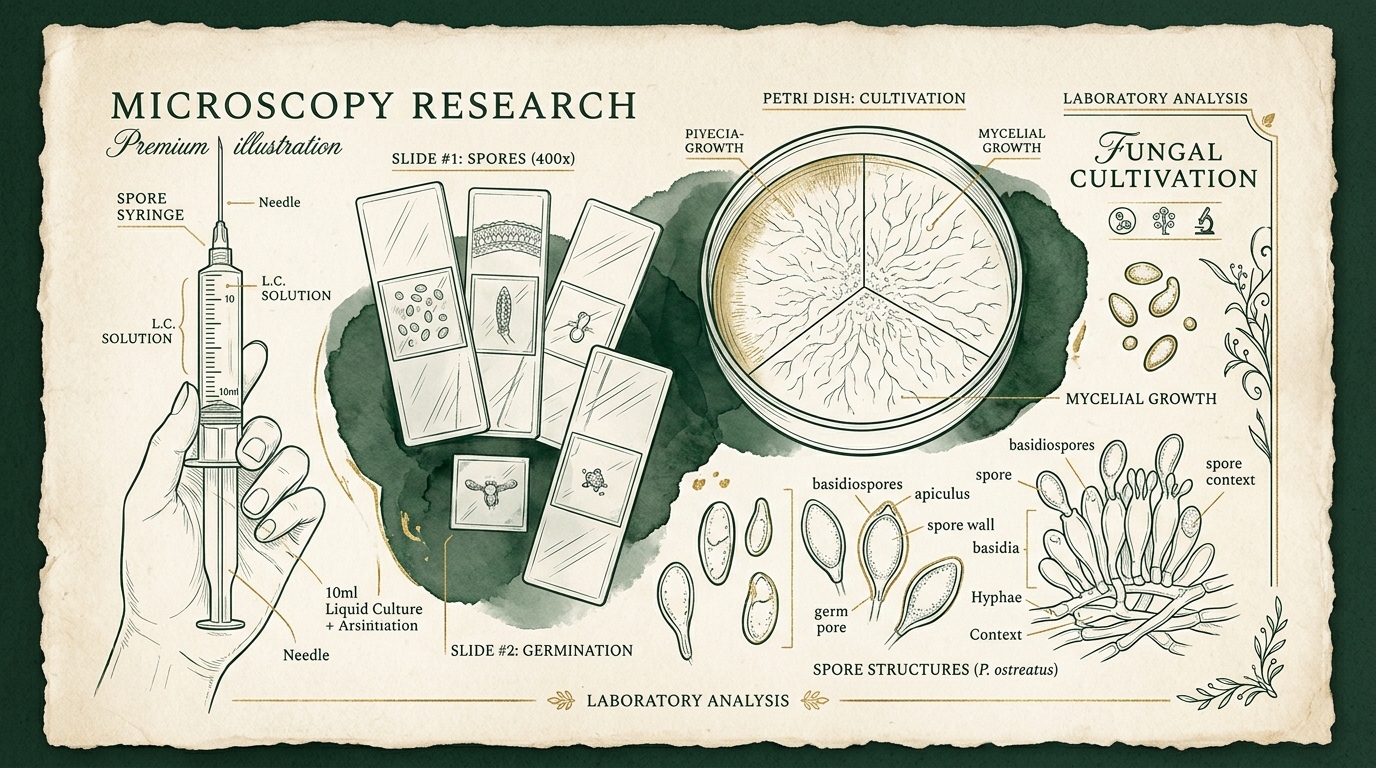
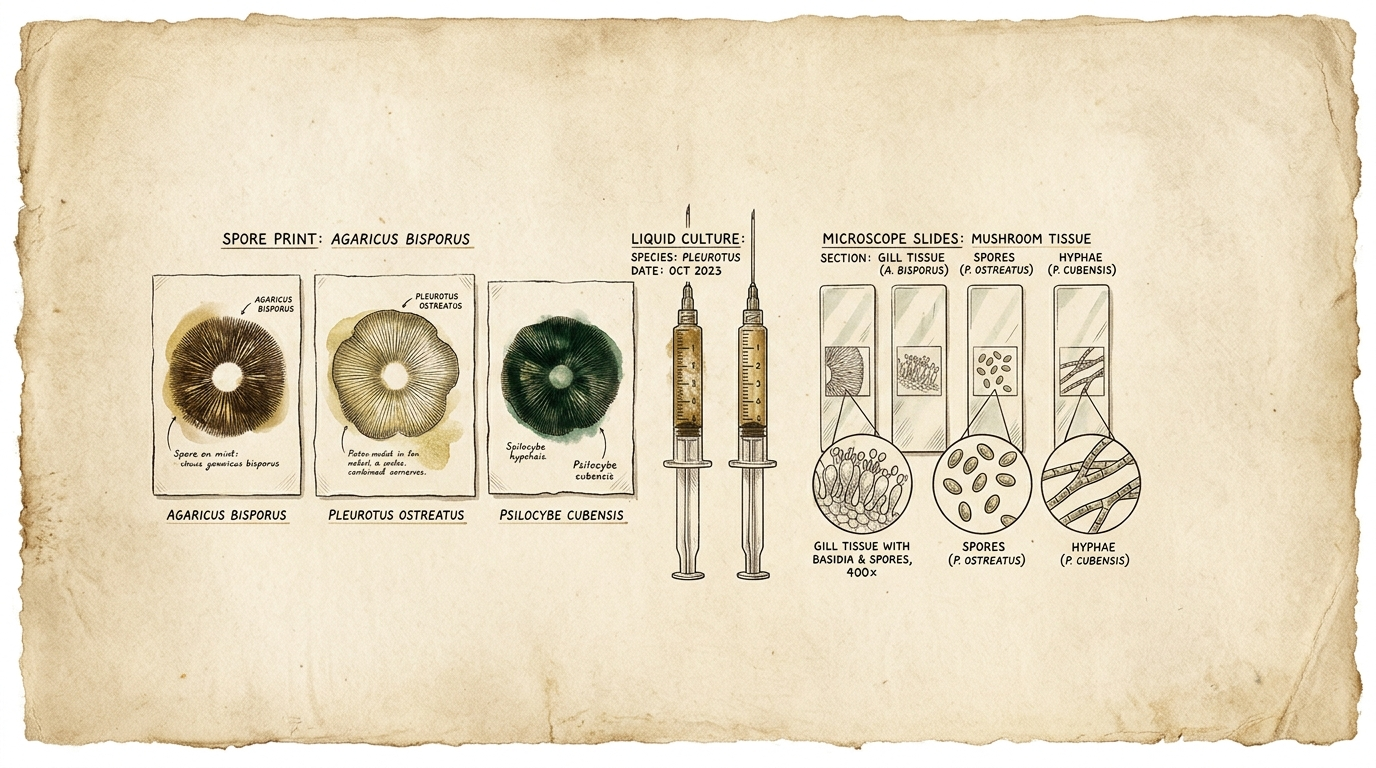
style: replace illustrations with wide panoramic layouts and add cache busting query params

diff --git a/index.html b/index.html
@@ -75,7 +75,7 @@
             <div class="collections-preview-grid">
                 <!-- Cultivation Collection -->
                 <div class="collection-preview-card reveal">
-                    <img src="assets/illustrations/grow_kits.jpg?v=908" alt="Mushroom Cultivation" class="collection-preview-img" style="width: 100%; height: 220px; object-fit: cover; border-radius: var(--radius-md); margin-bottom: 24px; border: 1px solid var(--border-color);">
+                    <img src="assets/illustrations/grow_kits.jpg?v=911" alt="Mushroom Cultivation" class="collection-preview-img" style="width: 100%; height: 220px; object-fit: cover; border-radius: var(--radius-md); margin-bottom: 24px; border: 1px solid var(--border-color);">
                     <div class="collection-preview-info">
                         <span class="collection-tag">Cultivation</span>
                         <h3>Spore Genetics & Grow Kits</h3>
@@ -86,7 +86,7 @@
 
                 <!-- Supplements Collection -->
                 <div class="collection-preview-card reveal">
-                    <img src="assets/illustrations/supplements.jpg?v=908" alt="Functional Supplements" class="collection-preview-img" style="width: 100%; height: 220px; object-fit: cover; border-radius: var(--radius-md); margin-bottom: 24px; border: 1px solid var(--border-color);">
+                    <img src="assets/illustrations/supplements.jpg?v=911" alt="Functional Supplements" class="collection-preview-img" style="width: 100%; height: 220px; object-fit: cover; border-radius: var(--radius-md); margin-bottom: 24px; border: 1px solid var(--border-color);">
                     <div class="collection-preview-info">
                         <span class="collection-tag">Wellness</span>
                         <h3>Functional Adaptogens</h3>

diff --git a/tools/substrate-calculator.html b/tools/substrate-calculator.html
@@ -196,7 +196,7 @@
     <!-- ═══ SUBSTRATE CALCULATOR ═══ -->
     <main class="calc-container">
         <div style="text-align: center; margin-bottom: 40px; background: var(--glass-bg); backdrop-filter: blur(16px); -webkit-backdrop-filter: blur(16px); border: 1px solid var(--glass-border); border-radius: var(--radius-lg); padding: 32px; box-shadow: var(--glass-shadow);">
-            <img src="../assets/illustrations/spores.jpg" alt="Bulk Substrate Calculator" style="width: 100%; height: 220px; object-fit: cover; border-radius: var(--radius-md); margin-bottom: 24px; border: 1px solid var(--border-color);">
+            <img src="../assets/illustrations/spores.jpg?v=911" alt="Bulk Substrate Calculator" style="width: 100%; height: 220px; object-fit: cover; border-radius: var(--radius-md); margin-bottom: 24px; border: 1px solid var(--border-color);">
             <h1 style="font-family:'DM Serif Display',serif; color:var(--green-dark); font-size:36px; margin-bottom:12px;">Bulk Substrate & Field Capacity Calculator</h1>
             <p style="color:var(--text-secondary); font-size:16px; max-width: 700px; margin: 0 auto; line-height: 1.6;">Calculate precise coco coir, vermiculite, gypsum, and water requirements to hit target field capacity.</p>
         </div>

diff --git a/guides/grow-kit-biological-efficiency.html b/guides/grow-kit-biological-efficiency.html
@@ -142,7 +142,7 @@
             <header class="guide-header">
                 <div class="guide-meta">Category: Cultivation · Technical Guide</div>
                 <h1 class="guide-title">Maximizing Yields: The Science Behind Pre-Colonized Grow Blocks</h1>
-                <img src="../assets/illustrations/grow_kits.jpg" alt="Maximizing Mushroom Grow Kit Yield: The Science of Biological Efficiency" class="guide-hero-img" style="width:100%; height:320px; object-fit:cover; border-radius:var(--radius-lg); margin-top:24px; border:1px solid var(--border-color);">
+                <img src="../assets/illustrations/grow_kits.jpg?v=911" alt="Maximizing Mushroom Grow Kit Yield: The Science of Biological Efficiency" class="guide-hero-img" style="width:100%; height:320px; object-fit:cover; border-radius:var(--radius-lg); margin-top:24px; border:1px solid var(--border-color);">
             </header>
             
             <p class="guide-intro">Starting a mushroom crop from scratch requires months of sterile lab work, pressure cookers, and high contamination risks. Pre-colonized mushroom grow blocks solve these barriers, utilizing fully established mycelial networks to guarantee massive gourmet harvests.</p>

diff --git a/guides/ds01-synbiotic-gut-science.html b/guides/ds01-synbiotic-gut-science.html
@@ -142,7 +142,7 @@
             <header class="guide-header">
                 <div class="guide-meta">Category: Probiotics · Technical Guide</div>
                 <h1 class="guide-title">Survivability: The Deciding Factor in Probiotic Efficacy</h1>
-                <img src="../assets/illustrations/synbiotics.jpg" alt="Why Standard Probiotics Fail: The Dual-Capsule Delivery System" class="guide-hero-img" style="width:100%; height:320px; object-fit:cover; border-radius:var(--radius-lg); margin-top:24px; border:1px solid var(--border-color);">
+                <img src="../assets/illustrations/synbiotics.jpg?v=911" alt="Why Standard Probiotics Fail: The Dual-Capsule Delivery System" class="guide-hero-img" style="width:100%; height:320px; object-fit:cover; border-radius:var(--radius-lg); margin-top:24px; border:1px solid var(--border-color);">
             </header>
             
             <p class="guide-intro">Most probiotic supplements on store shelves never actually reach your gut. The high-acid environment of the stomach destroys live bacteria before they arrive in the colon. Here is the science of why delivery technology is just as important as the bacterial strains themselves.</p>

diff --git a/guides/lions-mane-cognitive-wellness.html b/guides/lions-mane-cognitive-wellness.html
@@ -142,7 +142,7 @@
             <header class="guide-header">
                 <div class="guide-meta">Category: Supplements · Technical Guide</div>
                 <h1 class="guide-title">The Scientific Case for Lion's Mane in Cognitive Wellness</h1>
-                <img src="../assets/illustrations/lions_mane_kit.jpg" alt="Lion's Mane Mushroom Guide: Cognitive Health & NGF Stimulation" class="guide-hero-img" style="width:100%; height:320px; object-fit:cover; border-radius:var(--radius-lg); margin-top:24px; border:1px solid var(--border-color);">
+                <img src="../assets/illustrations/lions_mane_kit.jpg?v=911" alt="Lion's Mane Mushroom Guide: Cognitive Health & NGF Stimulation" class="guide-hero-img" style="width:100%; height:320px; object-fit:cover; border-radius:var(--radius-lg); margin-top:24px; border:1px solid var(--border-color);">
             </header>
             
             <p class="guide-intro">Hericium erinaceus, commonly known as Lion's Mane, is a culinary and medicinal mushroom with unique neurological properties. Emerging research points to its ability to stimulate Nerve Growth Factor (NGF) and actively support memory and focus.</p>

diff --git a/tools/diagnostics.html b/tools/diagnostics.html
@@ -312,7 +312,7 @@
     <!-- ═══ INTERACTIVE DIAGNOSTIC WIZARD ═══ -->
     <main class="diag-container">
         <div class="diag-card">
-            <img src="../assets/illustrations/grow_bags.jpg" alt="Mushroom Cultivation Diagnostic Wizard" style="width: 100%; height: 220px; object-fit: cover; border-radius: var(--radius-md); margin-bottom: 28px; border: 1px solid var(--border-color);">
+            <img src="../assets/illustrations/grow_bags.jpg?v=911" alt="Mushroom Cultivation Diagnostic Wizard" style="width: 100%; height: 220px; object-fit: cover; border-radius: var(--radius-md); margin-bottom: 28px; border: 1px solid var(--border-color);">
             <h1 style="font-family:'DM Serif Display',serif; color:var(--green-dark); font-size:36px; margin-bottom:12px; text-align:center;">Contamination Diagnostics</h1>
             <p style="color:var(--text-secondary); text-align:center; margin-bottom:32px; font-size:16px;">Diagnose environmental contamination issues and visual symptoms in your home cultivation runs.</p>
             

diff --git a/tools/yield-estimator.html b/tools/yield-estimator.html
@@ -91,7 +91,7 @@
     <main class="tool-container">
         
         <div class="tool-card">
-            <img src="../assets/illustrations/grow_kits.jpg" alt="Mushroom Cultivation Yield" style="width: 100%; height: 220px; object-fit: cover; border-radius: var(--radius-md); margin-bottom: 28px; border: 1px solid var(--border-color);">
+            <img src="../assets/illustrations/grow_kits.jpg?v=911" alt="Mushroom Cultivation Yield" style="width: 100%; height: 220px; object-fit: cover; border-radius: var(--radius-md); margin-bottom: 28px; border: 1px solid var(--border-color);">
             <h1 style="font-family:'DM Serif Display',serif; color:var(--green-dark); font-size:36px; margin-bottom:12px; text-align:center;">Mushroom Harvest & Yield Estimator</h1>
             <p style="color:var(--text-secondary); text-align:center; margin-bottom:32px; font-size:16px;">Estimate potential biological crop yields for both ready-to-grow blocks and laboratory spawn runs.</p>
 

diff --git a/tools/wellness-stack-builder.html b/tools/wellness-stack-builder.html
@@ -77,7 +77,7 @@
     <main class="tool-container">
         
         <div class="tool-card">
-            <img src="../assets/illustrations/supplements.jpg" alt="Daily Wellness Stack" style="width: 100%; height: 220px; object-fit: cover; border-radius: var(--radius-md); margin-bottom: 28px; border: 1px solid var(--border-color);">
+            <img src="../assets/illustrations/supplements.jpg?v=911" alt="Daily Wellness Stack" style="width: 100%; height: 220px; object-fit: cover; border-radius: var(--radius-md); margin-bottom: 28px; border: 1px solid var(--border-color);">
             <h1 style="font-family:'DM Serif Display',serif; color:var(--green-dark); font-size:36px; margin-bottom:12px; text-align:center;">Daily Wellness Stack Builder</h1>
             <p style="color:var(--text-secondary); text-align:center; margin-bottom:36px; font-size:16px;">Select your health goals and bio-hacking targets to generate your personalized wellness stack.</p>
 

diff --git a/blog/lions-mane-neurogenesis.html b/blog/lions-mane-neurogenesis.html
@@ -151,7 +151,7 @@
                     <span class="blog-author">By SporlyWorks Editorial</span>
                     <span class="blog-date">2026-07-11</span>
                 </div>
-                <img src="../assets/illustrations/lions_mane_extract.jpg" alt="Beyond NGF: The Direct Mechanism of Hericenones in Cognitive Plasticity" class="blog-hero-img" style="width:100%; height:320px; object-fit:cover; border-radius:var(--radius-lg); margin-top:24px; border:1px solid var(--border-color);">
+                <img src="../assets/illustrations/lions_mane_extract.jpg?v=911" alt="Beyond NGF: The Direct Mechanism of Hericenones in Cognitive Plasticity" class="blog-hero-img" style="width:100%; height:320px; object-fit:cover; border-radius:var(--radius-lg); margin-top:24px; border:1px solid var(--border-color);">
             </header>
             
             <div class="blog-body">

diff --git a/blog/synbiotics-absorption.html b/blog/synbiotics-absorption.html
@@ -151,7 +151,7 @@
                     <span class="blog-author">By SporlyWorks Editorial</span>
                     <span class="blog-date">2026-07-11</span>
                 </div>
-                <img src="../assets/illustrations/synbiotics.jpg" alt="Why 90% of Probiotics Fail: The Physics of Gastric Acid Survivability" class="blog-hero-img" style="width:100%; height:320px; object-fit:cover; border-radius:var(--radius-lg); margin-top:24px; border:1px solid var(--border-color);">
+                <img src="../assets/illustrations/synbiotics.jpg?v=911" alt="Why 90% of Probiotics Fail: The Physics of Gastric Acid Survivability" class="blog-hero-img" style="width:100%; height:320px; object-fit:cover; border-radius:var(--radius-lg); margin-top:24px; border:1px solid var(--border-color);">
             </header>
             
             <div class="blog-body">

diff --git a/blog/identifying-grow-contamination.html b/blog/identifying-grow-contamination.html
@@ -151,7 +151,7 @@
                     <span class="blog-author">By SporlyWorks Editorial</span>
                     <span class="blog-date">2026-07-11</span>
                 </div>
-                <img src="../assets/illustrations/spores.jpg" alt="The Cultivator's Guide to Mold: Trichoderma vs. Cobweb" class="blog-hero-img" style="width:100%; height:320px; object-fit:cover; border-radius:var(--radius-lg); margin-top:24px; border:1px solid var(--border-color);">
+                <img src="../assets/illustrations/spores.jpg?v=911" alt="The Cultivator's Guide to Mold: Trichoderma vs. Cobweb" class="blog-hero-img" style="width:100%; height:320px; object-fit:cover; border-radius:var(--radius-lg); margin-top:24px; border:1px solid var(--border-color);">
             </header>
             
             <div class="blog-body">

diff --git a/_marketing/generate_blog.py b/_marketing/generate_blog.py
@@ -539,7 +539,7 @@ def generate_blog():
             elif "synbiotics" in slug.lower() or "gut" in slug.lower():
                 hero_image = "../assets/illustrations/synbiotics.jpg"
             
-            hero_image_tag = f'<img src="{hero_image}" alt="{title}" class="blog-hero-img" style="width:100%; height:320px; object-fit:cover; border-radius:var(--radius-lg); margin-top:24px; border:1px solid var(--border-color);">'
+            hero_image_tag = f'<img src="{hero_image}?v=911" alt="{title}" class="blog-hero-img" style="width:100%; height:320px; object-fit:cover; border-radius:var(--radius-lg); margin-top:24px; border:1px solid var(--border-color);">'
 
             # Parse MD to HTML
             body_html = parse_markdown(body_md)
